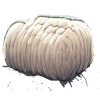
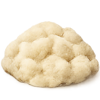
v3

diff --git a/v3/index.html b/v3/index.html
@@ -6,7 +6,7 @@
     
     <link rel="manifest" href="./assets/manifest-BMwuxWac.json">
 
-   <script type="module" crossorigin src="./assets/index-foS6ooYF.js"></script>
+   <script type="module" crossorigin src="./assets/index-B736-evX.js"></script>
    <link rel="stylesheet" crossorigin href="./assets/index-lGnH_QQK.css">
  </head>
 